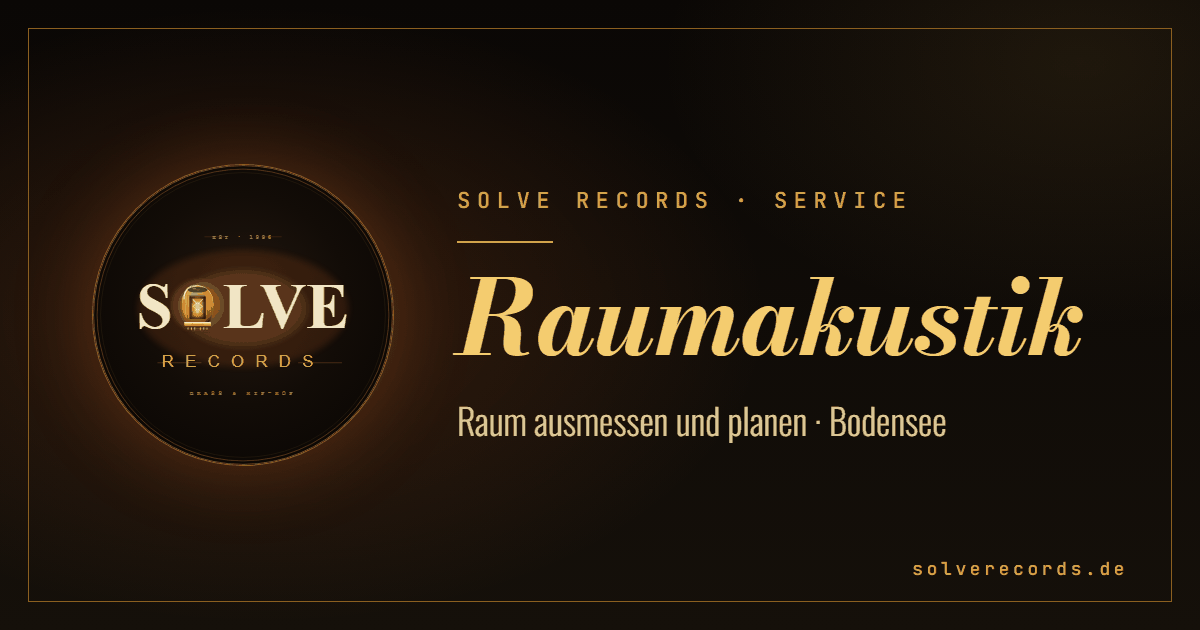
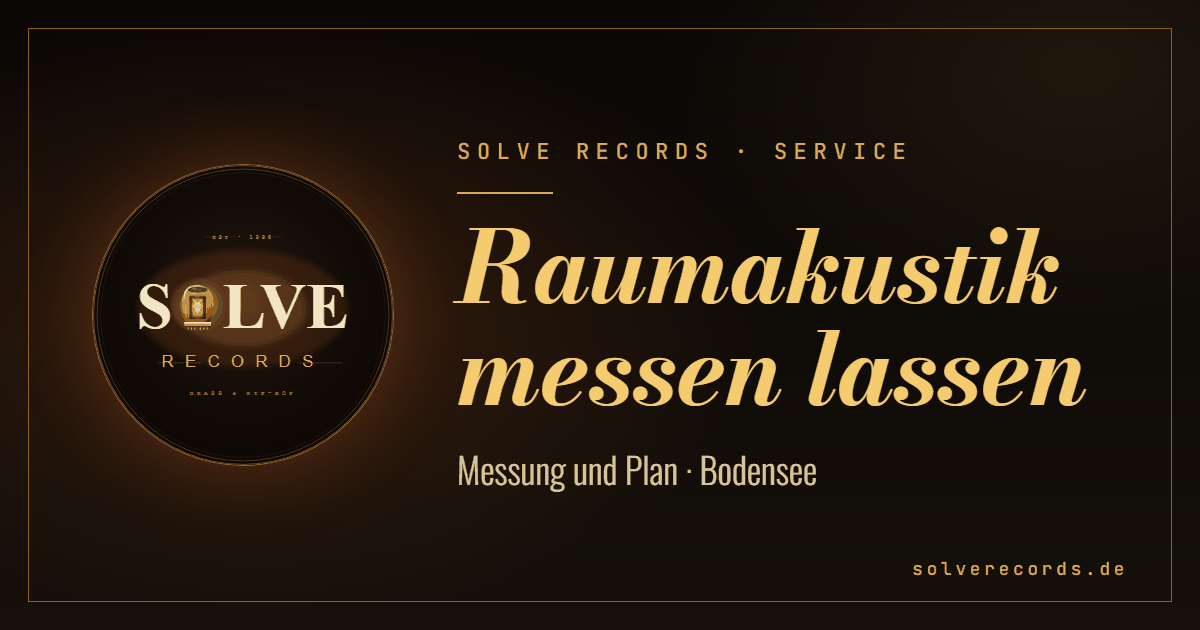
Raumakustik page: SEO for "Raumakustik messen lassen"
New title, description, OG texts and H1; new sections on what is measured
(REW), what you get, FAQ and service area; areaServed in JSON-LD; internal
links from the tools overview and the room-mode calculator; new share image;
sitemap lastmod. Missing facts are marked as FAKT FEHLT / PRÜFEN comments.

diff --git a/raumakustik/index.html b/raumakustik/index.html
@@ -3,13 +3,13 @@
 <head>
 <meta charset="UTF-8">
 <meta name="viewport" content="width=device-width, initial-scale=1.0">
-<title>Raumakustik: Raum ausmessen und planen | Solve Records</title>
-<meta name="description" content="Raumakustik am Bodensee: Messung und Plan ab 300 €, Ausarbeitung für DIY oder externe Absorber ab zusätzlich 100 €. Für Studio, Büro und Wohnraum.">
+<title>Raumakustik messen lassen am Bodensee | Solve Records</title>
+<meta name="description" content="Raumakustik messen lassen am Bodensee: Frequenzgang, Nachhall und Raummoden mit REW gemessen, dazu ein Plan für deinen Raum. Messung und Plan ab 300 €.">
 <link rel="canonical" href="https://solverecords.de/raumakustik/">
 
 <!-- Open Graph / Social -->
-<meta property="og:title" content="Raumakustik: Raum ausmessen und planen | Solve Records">
-<meta property="og:description" content="Raumakustik am Bodensee: Messung und Plan ab 300 €, Ausarbeitung für DIY oder externe Absorber ab zusätzlich 100 €. Für Studio, Büro und Wohnraum.">
+<meta property="og:title" content="Raumakustik messen lassen am Bodensee | Solve Records">
+<meta property="og:description" content="Raumakustik messen lassen am Bodensee: Frequenzgang, Nachhall und Raummoden mit REW gemessen, dazu ein Plan für deinen Raum. Messung und Plan ab 300 €.">
 <meta property="og:type" content="website">
 <meta property="og:url" content="https://solverecords.de/raumakustik/">
 <meta property="og:image" content="https://solverecords.de/assets/og/og-raumakustik.png">
@@ -137,6 +137,12 @@
   .panel { margin-top: 22px; padding: clamp(18px, 4vw, 28px); background: var(--bg-2); border: 1px solid var(--line); border-radius: var(--radius); box-shadow: inset 0 1px 0 rgba(244, 204, 111, 0.07); }
   .panel p { margin: 0; font-size: 16px; color: var(--cream-soft); max-width: 60ch; }
 
+  /* Häufige Fragen: Linien wie beim Ablauf */
+  .faq { margin: 22px 0 0; border-top: 1px solid var(--line); }
+  .faq div { padding: 18px 0; border-bottom: 1px solid var(--line); }
+  .faq h3 { margin: 0; font-family: var(--font-display); font-weight: 700; font-size: 20px; line-height: 1.25; color: var(--cream); }
+  .faq p { margin: 6px 0 0; font-size: 15px; color: var(--cream-soft); max-width: 62ch; }
+
   .cta { margin-top: clamp(40px, 8vw, 72px); padding: clamp(22px, 5vw, 36px); background: var(--bg-3); border: 1px solid var(--brass); border-radius: var(--radius); }
   .cta p { margin: 12px 0 0; font-size: 16px; color: var(--cream-soft); max-width: 56ch; }
 
@@ -167,14 +173,17 @@
       "name": "Raumakustik",
       "serviceType": "Raumakustische Messung und Planung",
       "url": "https://solverecords.de/raumakustik/",
-      "description": "Raumakustik am Bodensee: Messung und Plan ab 300 €, Ausarbeitung für DIY oder externe Absorber ab zusätzlich 100 €. Für Studio, Büro und Wohnraum.",
+      "description": "Raumakustik messen lassen am Bodensee: Frequenzgang, Nachhall und Raummoden mit REW gemessen, dazu ein Plan für deinen Raum. Messung und Plan ab 300 €.",
       "provider": {
         "@type": "LocalBusiness",
         "@id": "https://solverecords.de/#studio",
         "name": "Solve Records",
         "url": "https://solverecords.de/"
       },
-      "areaServed": "Bodensee",
+      "areaServed": [
+        { "@type": "Place", "name": "Bodensee" },
+        { "@type": "City", "name": "Radolfzell" }
+      ],
       "inLanguage": "de",
       "offers": [
         {
@@ -230,7 +239,7 @@
       <a href="../">← Startseite</a>
     </nav>
     <p class="eyebrow">Solve Records</p>
-    <h1>Raumakustik</h1>
+    <h1>Raumakustik messen lassen</h1>
     <p class="lead">Solve Records misst Räume aus und plant die Verkleidung, sei es als Do-it-yourself oder durch externe Anbieter.</p>
     <p class="sub">Für Studios, Büros und Wohnräume. Das Ziel ist ein Raum, dem du beim Aufnehmen, Mischen, Abhören oder Arbeiten vertrauen kannst.</p>
   </header>
@@ -267,6 +276,50 @@
     <a class="btn" href="../#kontakt">Raum anfragen <span aria-hidden="true">→</span></a>
   </div>
 
+  <section aria-labelledby="messung">
+    <p class="eyebrow">Messung</p>
+    <h2 id="messung">Was wird gemessen?</h2>
+    <p class="sub">Gemessen wird vor Ort mit der Messsoftware REW (Room EQ Wizard). Ein Messsignal wird im Raum abgespielt und am Hörplatz aufgenommen. Daraus entstehen drei Blickwinkel auf deinen Raum.</p>
+    <!-- PRÜFEN: Mikrofonmodell, Charakteristik, Kalibrierung (AKG C414 B; nicht als "kalibriert" oder "Messmikrofon" bezeichnen, solange ungeklärt) -->
+    <!-- FAKT FEHLT: womit das Messsignal abgespielt wird (vorhandene Lautsprecher oder eigener Messlautsprecher), Messdauer -->
+    <div class="ansatz">
+      <div>
+        <h3>Frequenzgang am Hörplatz</h3>
+        <p>Welche Frequenzen am Hörplatz zu laut oder zu leise ankommen, etwa Überhöhungen und Auslöschungen im Bass.</p>
+      </div>
+      <div>
+        <h3>Nachhallzeit</h3>
+        <p>Wie lange der Schall im Raum nachklingt, getrennt nach Frequenzbereichen. Zu viel Nachhall macht Sprache und Musik undeutlich.</p>
+      </div>
+      <div>
+        <h3>Raummoden</h3>
+        <p>Wasserfall und Spektrogramm zeigen, welche tiefen Töne lange ausklingen. Dort sitzen die Raummoden, die einen Raum dröhnen lassen.</p>
+      </div>
+    </div>
+    <!-- FAKT FEHLT: anonymisierte Beispielmessung vorher/nachher, Grafik mit Alt-Text -->
+  </section>
+
+  <section aria-labelledby="ergebnis">
+    <p class="eyebrow">Ergebnis</p>
+    <h2 id="ergebnis">Was bekommst du?</h2>
+    <p class="sub">Einen Plan des ausgemessenen Raums mit einem Vorschlag zur Raumakustikoptimierung. Wie es danach weitergeht, entscheidest du:</p>
+    <!-- FAKT FEHLT: wer die Umsetzung beim Kostenvoranschlag ausführt (Solve Records selbst oder Partner), ob der Kostenvoranschlag kostenlos ist oder zu Stufe 2 gehört -->
+    <div class="ansatz">
+      <div>
+        <h3>Kostenvoranschlag</h3>
+        <p>Ein Kostenvoranschlag zur Umsetzung der vorgeschlagenen Maßnahmen.</p>
+      </div>
+      <div>
+        <h3>Do-it-yourself</h3>
+        <p>Eine Anleitung, mit der du die Maßnahmen selbst umsetzt.</p>
+      </div>
+      <div>
+        <h3>Externe Absorber</h3>
+        <p>Eine Empfehlung, welche fertigen Absorber zu deinem Raum passen.</p>
+      </div>
+    </div>
+  </section>
+
   <section aria-labelledby="einsatz">
     <p class="eyebrow">Einsatz</p>
     <h2 id="einsatz">Für welche Räume</h2>
@@ -297,20 +350,64 @@
       </li>
       <li>
         <span class="no">02</span>
-        <h3>Analysieren</h3>
-        <p>Raummoden und kritische Frequenzen werden berechnet und gemessen. Daraus ergibt sich, wo der Raum Probleme macht.</p>
+        <h3>Messen</h3>
+        <p>Mit REW werden Frequenzgang, Nachhallzeit und das Ausklingen der tiefen Töne am Hörplatz gemessen.</p>
       </li>
       <li>
         <span class="no">03</span>
+        <h3>Analysieren</h3>
+        <p>Raummoden und kritische Frequenzen werden berechnet und mit der Messung ausgewertet. Daraus ergibt sich, wo der Raum Probleme macht.</p>
+      </li>
+      <li>
+        <span class="no">04</span>
         <h3>Planen</h3>
         <p>Ein Plan zeigt, wo welche akustischen Maßnahmen sinnvoll sind und wie die Verkleidung aufgebaut wird.</p>
       </li>
       <li>
-        <span class="no">04</span>
+        <span class="no">05</span>
         <h3>Umsetzen</h3>
-        <p>Du baust nach dem Plan selbst oder nutzt externe Absorber. Material und Produkte beschaffst du separat.</p>
+        <p>Du baust nach dem Plan selbst, nutzt externe Absorber oder lässt dir einen Kostenvoranschlag zur Umsetzung machen. Material und Produkte beschaffst du separat.</p>
       </li>
     </ol>
+    <!-- FAKT FEHLT: Messdauer vor Ort, Zeit bis zum fertigen Plan -->
+  </section>
+
+  <section aria-labelledby="faq">
+    <p class="eyebrow">Fragen</p>
+    <h2 id="faq">Häufige Fragen zur Raumakustik-Messung</h2>
+    <div class="faq">
+      <div>
+        <h3>Was kostet es, die Raumakustik messen zu lassen?</h3>
+        <p>Messung und Plan kosten ab 300 € für einen überschaubaren Raum. Die Ausarbeitung für Do-it-yourself oder externe Absorber kostet ab zusätzlich 100 €. Die Anfahrt kommt dazu, Material und Produkte sind nicht enthalten. Größere oder komplexere Räume bekommen ein individuelles Angebot.</p>
+      </div>
+      <div>
+        <h3>Brauche ich einen speziellen Raum?</h3>
+        <p>Nein. Gemessen wird dein Raum so, wie er ist, ob Studio, Büro, Wohn- oder Hobbyraum.</p>
+      </div>
+      <div>
+        <h3>Was ist der Unterschied zwischen Messung und Plan?</h3>
+        <p>Die Messung zeigt, wie sich der Raum verhält: Frequenzgang, Nachhall und Raummoden. Der Plan leitet daraus ab, wo welche Maßnahmen sinnvoll sind. Beides gehört zu Stufe 1.</p>
+      </div>
+      <div>
+        <h3>Bekomme ich ein Gutachten?</h3>
+        <p>Nein. Solve Records bietet Beratung und Planung, kein Gutachten nach Norm.</p>
+      </div>
+      <div>
+        <h3>Womit wird gemessen?</h3>
+        <p>Mit der Messsoftware REW (Room EQ Wizard) und eigenem Equipment vor Ort.</p>
+      </div>
+      <div>
+        <h3>Reicht nicht der Raummoden-Rechner?</h3>
+        <p>Der Rechner zeigt aus Länge, Breite und Höhe, bei welchen Frequenzen ein Raum theoretisch resoniert. Wie stark die Moden in deinem Raum tatsächlich auftreten und wie lange er nachklingt, zeigt erst die Messung.</p>
+      </div>
+    </div>
+  </section>
+
+  <section aria-labelledby="region">
+    <p class="eyebrow">Region</p>
+    <h2 id="region">Am Bodensee, von Radolfzell aus</h2>
+    <p class="sub">Raumakustik messen lassen am Bodensee, Radolfzell: Gemessen wird bei dir vor Ort, die Anfahrt kommt zusätzlich.</p>
+    <!-- FAKT FEHLT: Anfahrtsradius, Anfahrtskosten, weitere Orte im Servicegebiet (z. B. Konstanz, Singen, Überlingen) -->
   </section>
 
   <section aria-labelledby="rechner">

diff --git a/tools/index.html b/tools/index.html
@@ -107,6 +107,10 @@
     color: var(--tube);
   }
 
+  /* Textlink im Lead (Raumakustik), sonst erbt er Farbe und Unterstreichung des Fließtexts */
+  .tools-head .lead a { color: var(--brass); text-decoration: underline; text-underline-offset: 3px; text-decoration-thickness: 1px; }
+  .tools-head .lead a:hover, .tools-head .lead a:focus-visible { color: var(--brass-bright); }
+
   /* Hinweis „weitere Tools auf Anfrage“: schmale Leiste im Kachelstil, nach dem Raster.
      Abgrenzung zu den Kacheln über die Messing-Kante links und den transparenten Grund. */
   .tool-request {
@@ -221,7 +225,7 @@
       </div>
 
       <h1 class="h-display">Tools</h1>
-      <p class="lead">Kostenlose Tools für Musiker und Homestudio: kleine Helfer aus dem Studio, direkt im Browser und ohne Anmeldung.</p>
+      <p class="lead">Kostenlose Tools für Musiker und Homestudio: kleine Helfer aus dem Studio, direkt im Browser und ohne Anmeldung. Wenn der Raummoden-Rechner nicht reicht, kannst du deine <a href="../raumakustik/">Raumakustik messen lassen</a>.</p>
     </div>
 
     <div class="tools-grid">

diff --git a/tools/raummoden-rechner.html b/tools/raummoden-rechner.html
@@ -424,6 +424,7 @@
     <section class="tool-more" aria-labelledby="info-mehr">
       <h2 id="info-mehr">Mehr aus dem Studio</h2>
       <ul>
+        <li><a href="../raumakustik/">Raumakustik messen lassen: Messung und Plan am Bodensee</a></li>
         <li><a href="../services/recording-mixing-production/">Aufnehmen im Studio: Recording, Mixing und Production</a></li>
         <li><a href="../services/mastering/">Der letzte Schliff: Mastering</a></li>
         <li><a href="delay-rechner.html">Delay-Zeiten zum Tempo: Delay-Rechner</a></li>

diff --git a/dev/og/generate.py b/dev/og/generate.py
@@ -32,7 +32,7 @@ FONTS = {  # Dateiname -> @fontsource-Paket
 IMAGES = [
     ("og-default.png", "Recording Studio seit 1996", "Solve Records", "Brass &amp; Hip-Hop · Bodensee"),
     ("og-tools.png", "Solve Records · Tools", "Kostenlose Tools", "für Musiker und Homestudio"),
-    ("og-raumakustik.png", "Solve Records · Service", "Raumakustik", "Raum ausmessen und planen · Bodensee"),
+    ("og-raumakustik.png", "Solve Records · Service", "Raumakustik messen lassen", "Messung und Plan · Bodensee"),
     ("og-mastering.png", "Solve Records · Service", "Mastering", "Persönlich und analog · Bodensee"),
     ("og-recording.png", "Solve Records · Service", "Recording, Mixing &amp; Production", "Brass, Hip-Hop und mehr · Bodensee"),
     ("og-metronom.png", "Solve Records · Tools", "Metronom", "Online, mit Tap-Tempo · 40 bis 240 BPM"),
